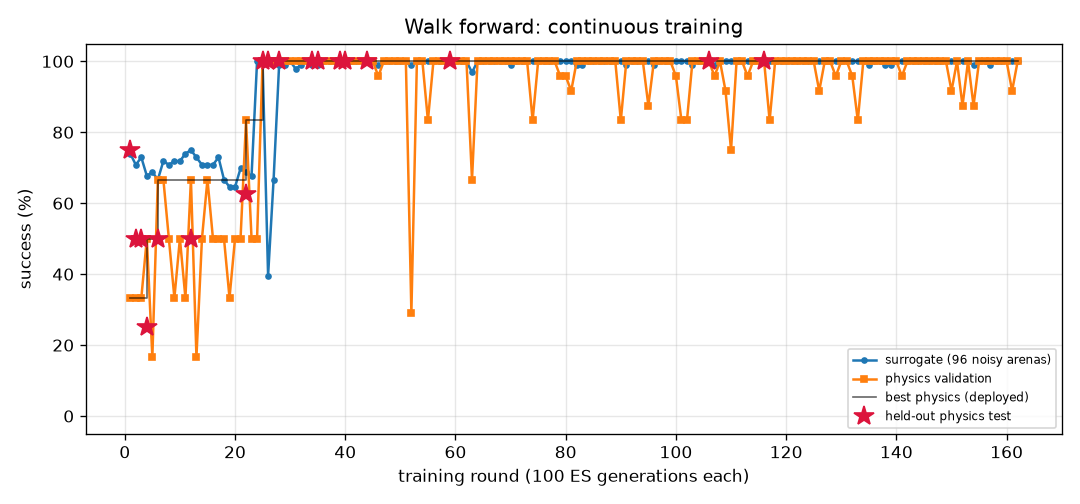
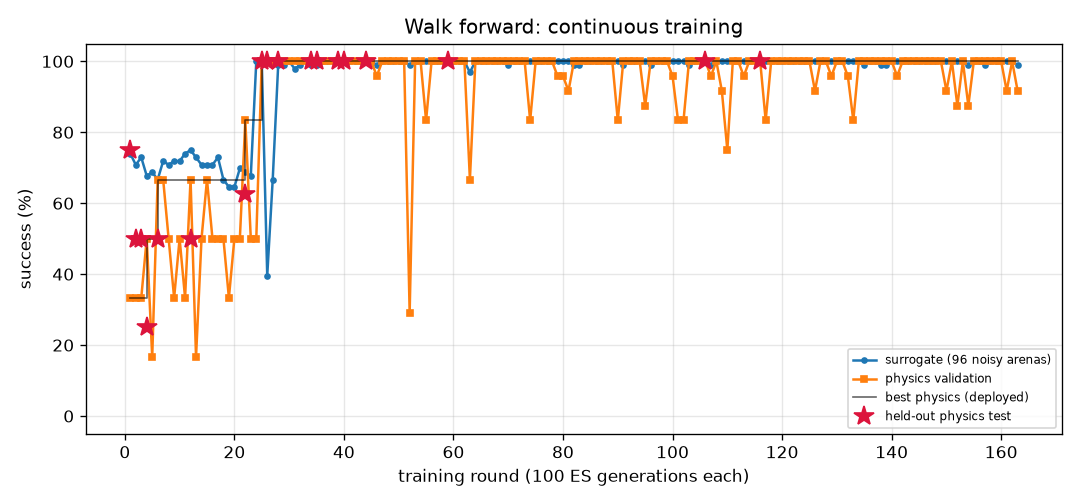
FlyLab: continuous training progress
- walk_forward: optimal, physics val 100% of 24, round 163
- turn: optimal, physics val 100% of 24, round 613
- goto: optimal, physics val 100% of 24, round 147
- odor_seek: optimal, physics val 100% of 24, round 133
- odor_avoid: optimal, physics val 100% of 24, round 585
- light_seek: optimal, physics val 100% of 24, round 331
- light_avoid: optimal, physics val 100% of 24, round 319

diff --git a/projects/09_flylab/training/turn/REPORT.md b/projects/09_flylab/training/turn/REPORT.md
@@ -1,14 +1,14 @@
 # Turn in place (`turn`) — training report
 
-*Auto-generated by `train_brains.py`, last updated 2026-10-22T19:30:11.*
+*Auto-generated by `train_brains.py`, last updated 2026-10-23T20:50:22.*
 
 ![curve](curve.png)
 
 | | |
 |---|---|
-| rounds | 605 |
-| ES generations | 60500 |
-| physics runs | 14766 |
+| rounds | 613 |
+| ES generations | 61300 |
+| physics runs | 14958 |
 | status | **optimal** |
 | best brain | round 80: physics validation **100%** on 24 arenas, surrogate 100% |
 | held-out physics test | **97%** on 32 unseen arenas (95% CI 84%-99%) (errors: [1.6, 3.3, 6.3, 3.7, 1.1, 0.4, 2.4, 2.9, 0.1, 2.6, 0.5, 2.7, 1.5, 3.1, 4.5, 0.2, 0.5, 1.1, 2.0, 4.4, 2.8, 3.2, 0.3, 2.2, 0.5, 3.0, 0.3, 5.4, 0.4, 1.0, 4.7, 10.7]) |
@@ -17,14 +17,6 @@ Physics error per arena: deg from target heading (< 20 = success).
 
 | round | level | gens | sigma | surrogate | physics val | val errors | test | note |
 |---:|---:|---:|---:|---:|---:|---|---:|---|
-| 566 | 3 | 56600 | 0.024 | 99% | 71% | [6.7, 7.4, 3.7, 1.2, 2.9, 2.5, 4.3, 1.1, 5.6, 13.8, 3.7, 2.2, 0.3, 0.2, 5.4, 0.5, 2.0, 1.8, 0.0, 1.1, 5.5, 2.1, 5.0, 6.9] |  |  |
-| 567 | 3 | 56700 | 0.025 | 100% | 88% | [3.7, 0.8, 7.0, 0.5, 1.6, 1.8, 6.9, 5.9, 6.7, 14.1, 4.3, 1.5, 5.4, 1.7, 6.0, 2.1, 2.6, 3.8, 2.3, 2.7, 1.8, 0.2, 6.8, 8.2] |  |  |
-| 568 | 3 | 56800 | 0.024 | 100% | 79% | [2.8, 3.4, 7.7, 2.9, 1.1, 2.1, 7.1, 4.9, 7.9, 2.0, 6.6, 2.6, 1.3, 0.7, 5.8, 4.0, 2.7, 4.5, 3.7, 3.5, 3.5, 2.5, 6.8, 6.4] |  | restart from best |
-| 569 | 3 | 56900 | 0.024 | 98% | 92% | [10.2, 11.4, 6.6, 6.0, 8.7, 6.4, 0.7, 6.4, 1.2, 4.1, 0.5, 2.8, 4.4, 7.7, 0.3, 3.2, 5.0, 3.5, 2.9, 5.9, 8.5, 0.2, 0.2, 10.6] |  |  |
-| 570 | 3 | 57000 | 0.025 | 98% | 62% | [9.3, 11.3, 4.1, 3.0, 7.2, 0.1, 2.7, 4.0, 2.0, 0.1, 3.3, 3.4, 1.5, 5.6, 2.4, 2.9, 3.8, 0.1, 0.4, 0.0, 7.5, 0.2, 1.7, 5.8] |  |  |
-| 571 | 3 | 57100 | 0.025 | 96% | 67% | [7.9, 9.6, 1.4, 0.6, 0.3, 112.2, 1.6, 5.4, 0.9, 0.5, 3.2, 3.3, 1.3, 5.1, 2.8, 2.1, 5.0, 0.4, 2.1, 1.3, 9.3, 1.5, 3.9, 11.0] |  |  |
-| 572 | 3 | 57200 | 0.026 | 97% | 75% | [0.6, 7.0, 9.5, 0.7, 0.7, 2.2, 8.4, 10.4, 8.8, 1.9, 7.9, 5.3, 1.2, 0.2, 7.5, 4.2, 5.2, 5.5, 5.5, 4.9, 0.5, 1.0, 9.1, 7.7] |  | restart from best |
-| 573 | 3 | 57300 | 0.024 | 100% | 88% | [0.5, 8.4, 0.9, 2.4, 2.1, 3.1, 3.0, 2.3, 4.2, 0.9, 3.6, 0.5, 1.2, 3.1, 2.4, 0.1, 0.5, 0.1, 0.5, 0.0, 6.7, 0.5, 3.0, 4.6] |  |  |
 | 574 | 3 | 57400 | 0.024 | 99% | 79% | [5.7, 4.7, 4.6, 0.7, 3.0, 1.4, 6.1, 5.8, 6.9, 0.4, 5.0, 0.4, 0.2, 2.0, 4.3, 0.2, 1.0, 1.7, 0.6, 0.7, 1.9, 0.5, 7.0, 5.3] |  |  |
 | 575 | 3 | 57500 | 0.025 | 98% | 71% | [3.8, 2.9, 3.3, 3.6, 1.3, 2.3, 7.2, 9.3, 5.6, 1.8, 5.8, 1.1, 3.4, 2.7, 5.7, 0.5, 1.7, 1.9, 1.0, 1.4, 4.1, 3.4, 6.7, 8.3] |  |  |
 | 576 | 3 | 57600 | 0.025 | 100% | 83% | [5.9, 1.4, 3.8, 0.0, 4.7, 15.7, 7.4, 9.9, 7.7, 14.5, 5.7, 2.7, 0.6, 2.1, 5.2, 1.8, 3.0, 2.6, 3.5, 1.2, 4.0, 0.2, 6.7, 5.4] |  | restart from best |
@@ -57,3 +49,11 @@ Physics error per arena: deg from target heading (< 20 = success).
 | 603 | 3 | 60300 | 0.025 | 99% | 75% | [10.1, 6.3, 9.0, 2.2, 1.7, 6.7, 7.5, 8.3, 9.3, 1.2, 6.0, 3.5, 2.1, 0.1, 4.9, 2.7, 3.6, 4.5, 4.8, 5.1, 0.9, 4.0, 8.6, 9.5] |  |  |
 | 604 | 3 | 60400 | 0.025 | 100% | 58% | [1.1, 2.4, 4.3, 0.1, 0.2, 121.2, 5.3, 8.7, 5.5, 0.3, 5.4, 3.1, 1.0, 0.2, 5.8, 1.3, 2.1, 2.9, 2.4, 3.2, 2.8, 3.8, 7.2, 9.6] |  | restart from best |
 | 605 | 3 | 60500 | 0.024 | 100% | 62% | [4.1, 2.8, 5.2, 0.9, 3.2, 0.8, 5.9, 8.2, 5.3, 0.4, 5.0, 0.2, 1.1, 3.6, 4.6, 0.3, 0.0, 2.4, 0.1, 0.0, 3.3, 0.1, 6.3, 5.7] |  |  |
+| 606 | 3 | 60600 | 0.024 | 100% | 88% | [8.0, 10.0, 8.9, 4.7, 4.2, 1.1, 2.6, 1.5, 2.1, 1.3, 3.6, 3.2, 3.2, 3.4, 1.6, 2.4, 3.2, 1.6, 2.9, 2.6, 5.8, 1.1, 3.4, 1.6] |  |  |
+| 607 | 3 | 60700 | 0.024 | 100% | 79% | [8.9, 1.8, 2.0, 1.7, 1.4, 2.0, 5.9, 8.7, 6.5, 14.2, 5.0, 0.8, 2.3, 1.9, 4.0, 0.3, 1.5, 3.5, 2.5, 0.5, 4.0, 0.5, 6.8, 5.3] |  |  |
+| 608 | 3 | 60800 | 0.024 | 99% | 88% | [1.4, 4.2, 8.1, 4.5, 8.9, 0.6, 4.9, 11.0, 8.3, 2.1, 6.7, 2.0, 3.2, 1.9, 6.1, 4.2, 2.4, 4.0, 4.5, 4.9, 1.9, 13.9, 8.0, 8.9] |  | restart from best |
+| 609 | 3 | 60900 | 0.024 | 98% | 100% | [7.2, 9.1, 9.4, 5.4, 3.9, 3.8, 2.1, 1.5, 1.7, 1.0, 1.8, 2.4, 4.8, 5.4, 1.0, 3.0, 2.1, 2.0, 2.6, 2.6, 7.9, 0.1, 3.0, 5.6] |  |  |
+| 610 | 3 | 61000 | 0.025 | 99% | 100% | [2.6, 5.4, 3.0, 0.1, 0.4, 3.4, 3.5, 2.6, 4.1, 0.4, 3.3, 0.6, 1.1, 3.0, 3.0, 0.9, 0.7, 1.9, 0.4, 0.1, 3.6, 0.7, 5.2, 4.4] |  |  |
+| 611 | 3 | 61100 | 0.025 | 100% | 83% | [2.8, 5.4, 0.4, 1.3, 2.0, 3.0, 5.3, 7.2, 4.5, 1.0, 2.9, 0.4, 1.8, 3.4, 3.4, 0.9, 0.4, 0.9, 0.6, 1.0, 2.6, 1.1, 6.1, 4.7] |  |  |
+| 612 | 3 | 61200 | 0.024 | 97% | 100% | [6.7, 9.2, 9.3, 3.9, 3.8, 3.7, 0.3, 0.3, 0.6, 3.0, 0.9, 2.9, 4.3, 5.8, 1.0, 4.3, 3.1, 2.7, 4.4, 1.2, 6.6, 1.5, 0.4, 5.7] |  | restart from best |
+| 613 | 3 | 61300 | 0.024 | 100% | 75% | [3.0, 6.1, 0.4, 0.8, 3.4, 2.1, 5.8, 1.4, 5.1, 1.2, 4.9, 0.6, 1.9, 3.2, 4.7, 1.3, 0.5, 1.5, 1.1, 1.1, 3.7, 0.6, 4.6, 5.6] |  |  |

diff --git a/projects/09_flylab/training/walk_forward/REPORT.md b/projects/09_flylab/training/walk_forward/REPORT.md
@@ -1,14 +1,14 @@
 # Walk forward (`walk_forward`) — training report
 
-*Auto-generated by `train_brains.py`, last updated 2026-10-22T22:23:37.*
+*Auto-generated by `train_brains.py`, last updated 2026-10-22T22:31:02.*
 
 ![curve](curve.png)
 
 | | |
 |---|---|
-| rounds | 162 |
-| ES generations | 16200 |
-| physics runs | 3902 |
+| rounds | 163 |
+| ES generations | 16300 |
+| physics runs | 3926 |
 | status | **optimal** |
 | best brain | round 116: physics validation **100%** on 24 arenas, surrogate 100% |
 | held-out physics test | **100%** on 32 unseen arenas (95% CI 89%-100%) (errors: [0.13, 0.16, 0.19, 0.16, 0.15, 0.2, 0.17, 0.18, 0.17, 0.19, 0.2, 0.14, 0.17, 0.19, 0.2, 0.2, 0.13, 0.19, 0.16, 0.2, 0.2, 0.16, 0.17, 0.2, 0.13, 0.15, 0.18, 0.14, 0.16, 0.15, 0.19, 0.12]) |
@@ -17,7 +17,6 @@ Physics error per arena: mm from target at the end (< 1.5 and standing still = s
 
 | round | level | gens | sigma | surrogate | physics val | val errors | test | note |
 |---:|---:|---:|---:|---:|---:|---|---:|---|
-| 123 | 3 | 12300 | 0.024 | 100% | 100% | [0.41, 0.47, 0.4, 0.41, 0.46, 0.42, 0.47, 0.38, 0.47, 0.47, 0.44, 0.46, 0.38, 0.41, 0.43, 0.47, 0.4, 0.46, 0.38, 0.44, 0.38, 0.47, 0.46, 0.38] |  |  |
 | 124 | 3 | 12400 | 0.024 | 100% | 100% | [0.26, 0.34, 0.23, 0.26, 0.34, 0.22, 0.34, 0.22, 0.34, 0.35, 0.24, 0.33, 0.21, 0.22, 0.28, 0.34, 0.24, 0.33, 0.21, 0.3, 0.21, 0.35, 0.33, 0.21] |  | restart from best |
 | 125 | 3 | 12500 | 0.024 | 100% | 100% | [0.45, 0.47, 0.38, 0.45, 0.47, 0.37, 0.46, 0.39, 0.47, 0.45, 0.37, 0.43, 0.39, 0.37, 0.46, 0.44, 0.44, 0.47, 0.4, 0.47, 0.41, 0.45, 0.42, 0.4] |  |  |
 | 126 | 3 | 12600 | 0.024 | 100% | 92% | [0.28, 0.31, 0.03, 0.28, 0.31, 0.04, 0.31, 0.05, 0.31, 0.29, 0.43, 0.24, 0.07, 0.05, 0.3, 0.23, 0.27, 0.3, 0.04, 0.3, 0.23, 0.28, 0.24, 0.08] |  |  |
@@ -57,3 +56,4 @@ Physics error per arena: mm from target at the end (< 1.5 and standing still = s
 | 160 | 3 | 16000 | 0.024 | 100% | 100% | [0.28, 0.28, 0.23, 0.29, 0.28, 0.22, 0.28, 0.25, 0.28, 0.25, 0.21, 0.24, 0.24, 0.22, 0.28, 0.25, 0.28, 0.28, 0.26, 0.28, 0.27, 0.26, 0.23, 0.25] |  | restart from best |
 | 161 | 3 | 16100 | 0.024 | 100% | 92% | [1.02, 0.08, 0.11, 0.02, 0.03, 0.11, 0.08, 0.11, 0.08, 0.12, 0.1, 0.16, 0.1, 0.11, 0.68, 0.15, 0.11, 0.05, 0.12, 0.03, 0.11, 0.13, 0.17, 0.11] |  |  |
 | 162 | 3 | 16200 | 0.024 | 100% | 100% | [0.11, 0.17, 0.15, 0.11, 0.16, 0.16, 0.18, 0.12, 0.17, 0.23, 0.17, 0.23, 0.13, 0.16, 0.11, 0.23, 0.1, 0.14, 0.11, 0.12, 0.11, 0.23, 0.24, 0.13] |  |  |
+| 163 | 3 | 16300 | 0.024 | 99% | 92% | [0.15, 0.2, 0.22, 0.12, 0.19, 0.21, 0.22, 0.2, 0.21, 0.26, 0.23, 0.27, 0.19, 0.21, 0.13, 0.27, 0.3, 0.17, 0.19, 0.15, 0.17, 0.27, 0.27, 0.19] |  |  |

diff --git a/README.md b/README.md
@@ -89,17 +89,17 @@ automatically as training improves it.*
 </p>
 
 <!-- BRAINS:START -->
-**Status on 2026-10-22** (rewritten daily by `daily.py`; the [dashboard](https://rohitcraftsyt.github.io/FruitFlyBrain/projects/09_flylab/dashboard/) is live):
+**Status on 2026-10-23** (rewritten daily by `daily.py`; the [dashboard](https://rohitcraftsyt.github.io/FruitFlyBrain/projects/09_flylab/dashboard/) is live):
 
 | Skill brain | Rounds | Physics validation | **Held-out physics test** (95% CI) | Fresh-arena check | Status |
 |---|---:|---:|---:|---:|---|
-| Walk forward | 155 | 100% of 24 | **100% of 32** (89%–100%) | 100% of 16 (2026-10-22) | ✅ optimal |
-| Turn in place | 602 | 100% of 24 | **97% of 32** (84%–99%) | 100% of 16 (2026-10-22) | ✅ optimal |
-| Go to a location | 141 | 100% of 24 | **100% of 32** (89%–100%) | 100% of 16 (2026-10-22) | ✅ optimal |
-| Find food by smell | 130 | 100% of 24 | **100% of 32** (89%–100%) | 100% of 16 (2026-10-22) | ✅ optimal |
-| Escape a bad smell | 576 | 100% of 24 | **97% of 32** (84%–99%) | 100% of 16 (2026-10-22) | ✅ optimal |
-| Walk toward light | 325 | 100% of 24 | **100% of 32** (89%–100%) | 100% of 16 (2026-10-22) | ✅ optimal |
-| Hide from light | 310 | 100% of 24 | **100% of 32** (89%–100%) | 100% of 16 (2026-10-22) | ✅ optimal |
+| Walk forward | 163 | 100% of 24 | **100% of 32** (89%–100%) | 100% of 16 (2026-10-23) | ✅ optimal |
+| Turn in place | 612 | 100% of 24 | **97% of 32** (84%–99%) | 100% of 16 (2026-10-23) | ✅ optimal |
+| Go to a location | 147 | 100% of 24 | **100% of 32** (89%–100%) | 100% of 16 (2026-10-23) | ✅ optimal |
+| Find food by smell | 133 | 100% of 24 | **100% of 32** (89%–100%) | 100% of 16 (2026-10-23) | ✅ optimal |
+| Escape a bad smell | 585 | 100% of 24 | **97% of 32** (84%–99%) | 100% of 16 (2026-10-23) | ✅ optimal |
+| Walk toward light | 331 | 100% of 24 | **100% of 32** (89%–100%) | 100% of 16 (2026-10-23) | ✅ optimal |
+| Hide from light | 319 | 100% of 24 | **100% of 32** (89%–100%) | 100% of 16 (2026-10-23) | ✅ optimal |
 <!-- BRAINS:END -->
 
 **How it got here** (full [engineering log](projects/09_flylab/README.md#making-skills-survive-the-jump-to-physics-engineering-log)):

diff --git a/projects/09_flylab/training/CHECKS.md b/projects/09_flylab/training/CHECKS.md
@@ -1,15 +1,15 @@
 # Daily fresh-arena checks
 
-*Auto-generated by `recheck.py`, last updated 2026-10-22T19:17:43.*
+*Auto-generated by `recheck.py`, last updated 2026-10-23T20:49:24.*
 
 Every day each optimal brain is re-run in MuJoCo on a new set of random arenas it has never seen. The fixed held-out test decides 'optimal' (>= 90%); these checks watch for brains that only look good on that fixed set. Anything under 80% is flagged.
 
 | skill | last check | brain round | fresh arenas | success (95% CI) | last 7 checks |
 |---|---|---:|---:|---|---|
-| Walk forward | 2026-10-22 | 116 | 16 | 100% (81%-100%) | 100% 100% 100% 100% 100% 100% 100% |
-| Turn in place | 2026-10-22 | 80 | 16 | 100% (81%-100%) | 100% 100% 100% 100% 94% 100% 100% |
-| Go to a location | 2026-10-22 | 80 | 16 | 100% (81%-100%) | 100% 100% 100% 100% 100% 100% 100% |
-| Find food by smell | 2026-10-22 | 99 | 16 | 100% (81%-100%) | 100% 100% 100% 100% 100% 100% 100% |
-| Escape a bad smell | 2026-10-22 | 373 | 16 | 100% (81%-100%) | 94% 100% 100% 94% 100% 100% 100% |
-| Walk toward light | 2026-10-22 | 295 | 16 | 100% (81%-100%) | 100% 100% 100% 100% 100% 100% 100% |
-| Hide from light | 2026-10-22 | 159 | 16 | 100% (81%-100%) | 100% 100% 100% 100% 100% 100% 100% |
+| Walk forward | 2026-10-23 | 116 | 16 | 100% (81%-100%) | 100% 100% 100% 100% 100% 100% 100% |
+| Turn in place | 2026-10-23 | 80 | 16 | 100% (81%-100%) | 100% 100% 100% 94% 100% 100% 100% |
+| Go to a location | 2026-10-23 | 80 | 16 | 100% (81%-100%) | 100% 100% 100% 100% 100% 100% 100% |
+| Find food by smell | 2026-10-23 | 99 | 16 | 100% (81%-100%) | 100% 100% 100% 100% 100% 100% 100% |
+| Escape a bad smell | 2026-10-23 | 373 | 16 | 100% (81%-100%) | 100% 100% 94% 100% 100% 100% 100% |
+| Walk toward light | 2026-10-23 | 295 | 16 | 100% (81%-100%) | 100% 100% 100% 100% 100% 100% 100% |
+| Hide from light | 2026-10-23 | 159 | 16 | 100% (81%-100%) | 100% 100% 100% 100% 100% 100% 100% |

diff --git a/projects/09_flylab/training/TRAINING.md b/projects/09_flylab/training/TRAINING.md
@@ -1,13 +1,13 @@
 # FlyLab brains — continuous training log
 
-*Auto-generated by `train_brains.py`, last updated 2026-10-22T22:23:37.*
+*Auto-generated by `train_brains.py`, last updated 2026-10-23T20:50:27.*
 
 Every skill has its own brain and its own training process: surrogate ES rounds, physics validation in MuJoCo, keep-the-best selection, and a held-out physics test that is never used for selection. See each skill's report for its full round-by-round history. Mastery is progressive: passing a level (100% physics validation, >=95% surrogate) doubles the validation and test arena sets; a brain is **optimal** once it holds up at level 3 (>=95% of 24 validation arenas) AND scores >=90% on the 32 held-out test arenas. Test columns show 95% Wilson confidence intervals.
 
 | skill | rounds | ES generations | physics runs | surrogate | physics val | **physics test** | status |
 |---|---:|---:|---:|---:|---:|---:|---|
-| [Walk forward](walk_forward/REPORT.md) | 162 | 16200 | 3902 | 100% | 100% of 24 | 100% of 32 (CI 89-100%) | **optimal** |
-| [Turn in place](turn/REPORT.md) | 605 | 60500 | 14766 | 100% | 100% of 24 | 97% of 32 (CI 84-99%) | **optimal** |
+| [Walk forward](walk_forward/REPORT.md) | 163 | 16300 | 3926 | 100% | 100% of 24 | 100% of 32 (CI 89-100%) | **optimal** |
+| [Turn in place](turn/REPORT.md) | 613 | 61300 | 14958 | 100% | 100% of 24 | 97% of 32 (CI 84-99%) | **optimal** |
 | [Go to a location](goto/REPORT.md) | 147 | 14700 | 3414 | 100% | 100% of 24 | 100% of 32 (CI 89-100%) | **optimal** |
 | [Find food by smell](odor_seek/REPORT.md) | 133 | 13300 | 2558 | 100% | 100% of 24 | 100% of 32 (CI 89-100%) | **optimal** |
 | [Escape a bad smell](odor_avoid/REPORT.md) | 585 | 58500 | 11346 | 97% | 100% of 24 | 97% of 32 (CI 84-99%) | **optimal** |
